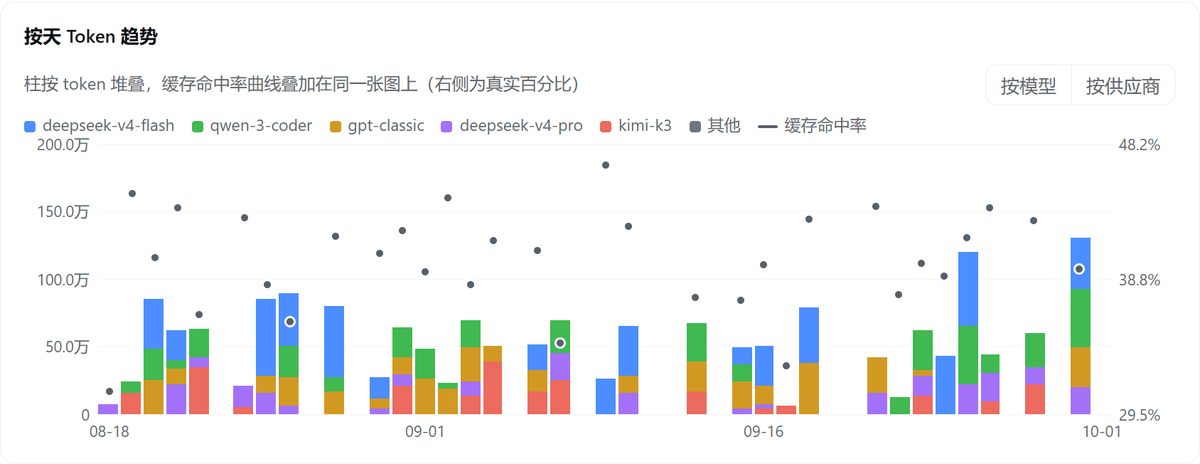
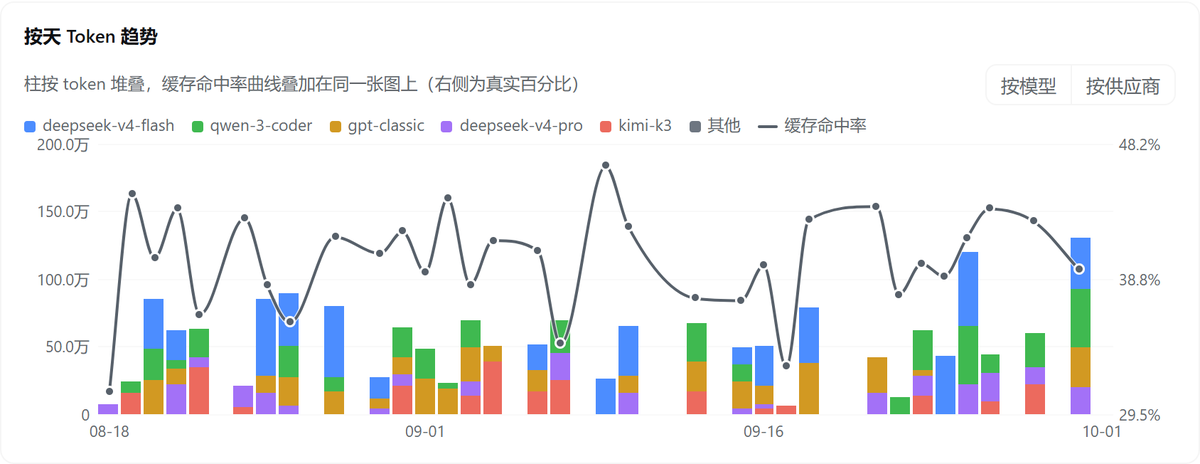
fix(scripts): 出图脚本用 createElementNS 建 SVG，曲线与圆环不再丢失并加自检

diff --git a/scripts/render-shots.py b/scripts/render-shots.py
@@ -53,6 +53,11 @@ html,body{margin:0;padding:0;background:var(--dsw-alias-bg-base);color:var(--dsw
 </head><body>
 <div id="wrap"><div id="panel"></div><div id="sidebar"></div></div>
 <script>
+const SVG_NS = "http://www.w3.org/2000/svg";
+// createElement("svg") yields an HTMLUnknownElement, and a whole <svg> subtree
+// built that way paints nothing — the namespace has to be explicit, which is
+// what React DOM does for these same elements in the real app.
+const SVG_TAGS = new Set(["svg","g","path","circle","ellipse","rect","line","polyline","polygon","text","tspan","defs","use","clipPath","mask","linearGradient","radialGradient","stop"]);
 const SVG_ATTRS = """ + json.dumps(SVG_ATTRS) + """;
 const SVG_VERBATIM = new Set(""" + json.dumps(sorted(SVG_VERBATIM)) + """);
 const DATA = """ + json.dumps(payload["trees"]).replace("<", "\\u003c") + """;
@@ -65,8 +70,8 @@ function build(node) {
     return frag;
   }
   if (typeof node === "string" || typeof node === "number") return document.createTextNode(String(node));
-  const el = document.createElement(node.tag);
-  const isSvg = el instanceof SVGElement;
+  const el = SVG_TAGS.has(node.tag) ? document.createElementNS(SVG_NS, node.tag) : document.createElement(node.tag);
+  const isSvg = el.namespaceURI === SVG_NS;
   for (const [key, value] of Object.entries(node.props || {})) {
     if (value === undefined || value === null || key === "children" || typeof value === "function") continue;
     if (key === "className") { el.setAttribute("class", value); continue; }
@@ -134,7 +139,27 @@ def main():
                 # deliberately not emulated, so the shot proves which one wins.
                 page.evaluate("document.body.setAttribute('data-ds-dark-theme','')")
             page.wait_for_timeout(400)
-            print(theme + ":")
+            # Guard: a namespace slip once produced a page whose <svg> subtrees
+            # painted nothing — the bars were fine, the hit-rate curve and the
+            # donut silently vanished. Fail loudly instead of shipping that.
+            check = page.evaluate(
+                """() => {
+                  const path = document.querySelector('svg path');
+                  const circle = document.querySelector('svg circle');
+                  return {
+                    paths: document.querySelectorAll('svg path').length,
+                    circles: document.querySelectorAll('svg circle').length,
+                    strokes: [...document.querySelectorAll('svg path')].map((el) => getComputedStyle(el).stroke),
+                    circleStrokes: [...document.querySelectorAll('svg circle')].map((el) => getComputedStyle(el).stroke),
+                  };
+                }"""
+            )
+            # Halo + curve must both be there, and painted in different colours:
+            # a page with only the halo would otherwise pass while the curve is gone.
+            assert check["paths"] >= 2 and check["circles"] >= 1, "SVG geometry is missing: " + str(check)
+            assert len(set(check["strokes"])) >= 2, "the curve is indistinguishable from its halo: " + str(check)
+            assert "none" not in check["strokes"] + check["circleStrokes"], "something would be invisible: " + str(check)
+            print(theme + ":", check["paths"], "paths,", check["circles"], "circles,", len(set(check["strokes"])), "stroke colours")
             shoot(page, out_dir, "#panel", "screenshot-dashboard-" + theme + ".png")
             shoot(page, out_dir, "#sidebar", "screenshot-sidebar-" + theme + ".png")
             shoot(page, out_dir, ".dtu-cards", "screenshot-cards-" + theme + ".png")
